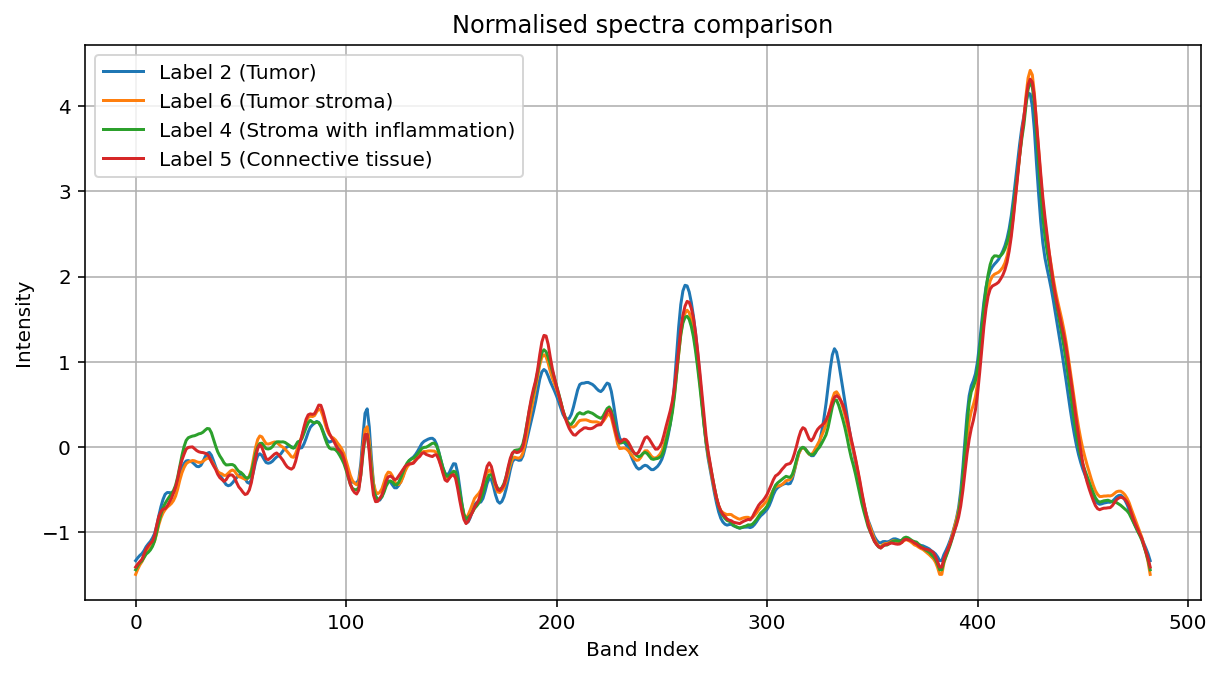
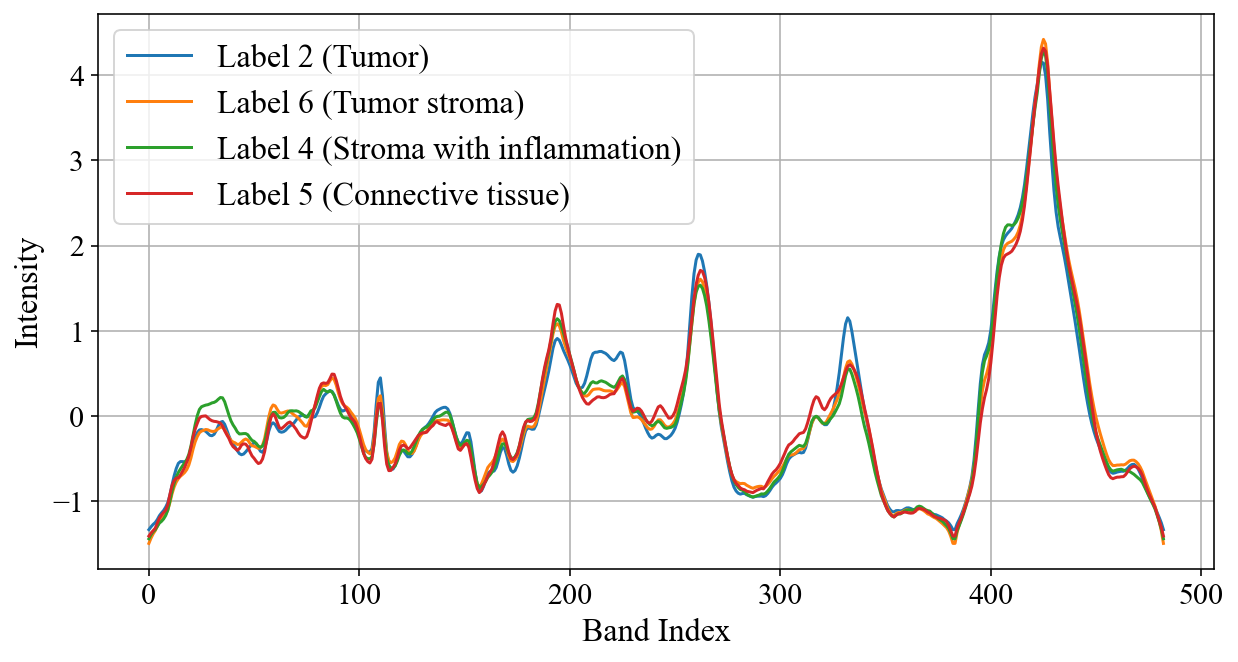
(Claudio) Ch4new: increased fontsize for images + minor corrections

diff --git a/Chapters/Ch_4_new.tex b/Chapters/Ch_4_new.tex
@@ -32,11 +32,11 @@ For Raman hyperspectral maps, spectra were acquired point by point with a spatia
 \subsection{Preprocessing}
 \label{sec:preprocessing_before_analysis}
 
-After acquisition, the raw Raman spectra underwent a stage of preprocessing which was not part of the work for this thesis, but will be briefly illustraded for completeness.
+After acquisition, the raw Raman spectra underwent a stage of preprocessing which was not part of the work for this thesis, but will be briefly illustrated for completeness.
 
 The detector pixel axis was calibrated and converted into Raman shift, and the spectra were interpolated onto a common wavenumber axis. The pipeline then included cosmic-ray (spike) removal, subtraction of the quartz-substrate contribution and baseline correction to remove the background.
 
-The spectra, acquired over a broader Raman-shift range, have been stripped of the \textit{silent region} (1800--2800 $\mathrm{cm}^{-1}$) (\cref{sec:raman_biological_tissues}), where no useful biological information is found, reducing number of bands from 888 to 483. The remaining \textit{fingerprint} and \textit{CH} regions were normalized separately and then joined.
+The spectra, acquired over a broader Raman-shift range, have been stripped of the \textit{silent region} (1800--2800 $\mathrm{cm}^{-1}$) (\cref{sec:raman_biological_tissues}), where no useful biological information is found, reducing the number of bands from 888 to 483. The remaining \textit{fingerprint} and \textit{CH} regions were normalized separately and then joined.
 
 This preparation is important for machine learning, because the spectra used as input to the classification model are shaped not only by tissue biochemistry, but also by acquisition conditions and experimental noise. If these effects are not properly controlled or corrected, the model may learn patterns related to measurement variability rather than tissue class.
 
@@ -48,7 +48,7 @@ The Raman spectra in the dataset have been stored in a \textit{.parquet} file, w
 The analyzed biological tissue was taken from 25 \textit{samples}, one from each of 25 different patients.
 
 Two to five areas, called \textit{maps}, were then selected from each sample for the Raman spectra acquisition.
-A spectrum was acquired for each pixel in the map. Each map has a size of $600\times600 \ \mu m$, acquired as $120\times120$ pixels.
+A spectrum was acquired for each pixel in the map. Each map has a size of $600\times600~\mu\mathrm{m}$, acquired as $120\times120$ pixels.
 Finally, each spectrum ranges across 483 bands and has an associated \textit{label}, indicating the type of biological tissue it belongs to.
 
 \begin{table}[ht]
@@ -91,7 +91,7 @@ With 25 samples and 2 to 5 maps each, the total number of maps is 78, thus amoun
 \label{sec:labels-ch4}
 
 Each pixel (spectrum) has been assigned a label, corresponding to a specific type of biological tissue, by a histopathologist.
-The classification pipeline started with the preparation of the samples as $12\mu m$ slices of tumoral tissue.
+The classification pipeline started with the preparation of the samples as $12~\mu\mathrm{m}$ slices of tumoral tissue.
 Raman spectroscopy was first performed on each slice. The slices were then treated through H\&E staining to allow the histopathologist to assign the labels. Finally, the annotations from the H\&E were directly transferred into the Raman Map.
 
 This process includes two critical points:
@@ -158,11 +158,10 @@ In a preliminary visual analysis, the average spectrum for each class has been c
 
 \begin{figure}[ht]
     \centering
-    \includegraphics[width=0.5\linewidth]{Images/Images_ch_2/spectrum_avg_tumor.png}
+    \includegraphics[width=0.65\linewidth]{Images/Images_ch_2/spectrum_avg_tumor.png}
     \caption{Average spectrum for the \textit{tumor} label. The shaded band shows $\pm1$ standard deviation across spectra. The \textit{fingerprint region} and \textit{CH region} are joined at band n.390, where the intensity is 0.}
-    \label{fig:spectrum_avg_tumor-ch4}
+    \label{fig:spectrum_avg_tumor}
 \end{figure}
-
 
 All classes appear to have the same trends, with multiple similar peaks in the \textit{fingerprint region} (bands 0--382, or equivalently 500--1800 $\mathrm{cm}^{-1}$) and a major peak in the \textit{CH region} (bands 383--483, or equivalently 2800--3000 $\mathrm{cm}^{-1}$). The only exceptions are represented by \textit{unlabeled/transparent}, \textit{artifact} and \textit{necrosis} pixels, which differ from the others mainly in the fingerprint region (\Cref{fig:spectra_comparison_discarded-ch4}).
 
@@ -209,34 +208,36 @@ The \textit{tumor} macro-class, which always includes the \textit{tumor (2)} lab
 
 
 The second approach, using isolated classes, will reduce intra-class variance and allow the model to learn the class-specific patterns, thus improving performance.
-Due to the class imbalance (tumor alone being 46,71\% of the dataset) the classes will not be equal in numerosity anymore, requiring rebalancing by discarding part of the available training data. The model is then trained on a reduced number of spectra. Due to the size of the dataset ($>$1\,000\,000 spectra) and the strong spatial correlation between adjacent pixels, which makes neighbouring spectra highly redundant, the data can be substantially subsampled with little loss of information, provided that spectra from every sample are retained. This reduces the possible choices for \textit{healthy} labels to the most numerous ones, i.e.\ \textit{tumor stroma (6)}, \textit{stroma with inflammation (4)} and \textit{connective tissue (5)} (\Cref{fig:label_distribution-ch4}).
+Due to the class imbalance (tumor alone being 46,71\% of the dataset), the classes will not be equal in numerosity anymore, requiring rebalancing by discarding part of the available training data. The model is then trained on a reduced number of spectra. Due to the size of the dataset ($>$1\,000\,000 spectra) and the strong spatial correlation between adjacent pixels, which makes neighbouring spectra highly redundant, the data can be substantially subsampled with little loss of information, provided that spectra from every sample are retained. This reduces the possible choices for \textit{healthy} labels to the most numerous ones, i.e.\ \textit{tumor stroma (6)}, \textit{stroma with inflammation (4)} and \textit{connective tissue (5)} (\Cref{fig:label_distribution-ch4}).
 % TODO (optional, for a stronger quantitative claim): validate the subsampling empirically instead of stating it qualitatively.
 % Sweep the training-set fraction (e.g. 5/10/25/50/100%) using the SUBSAMPLE knob in scripts/train.py of the VibraAI repo, keeping the leakage-free per-patient split, and plot AUC/accuracy vs fraction.
 % If performance stays flat down to a small fraction, replace the sentence above with the measured number (e.g. "down to X\% with no significant performance loss") and add the plot as a figure.
 
-Regarding discernability, the most similar tissues are also the most clinically confusable. Being able to discriminate would then be the most valuable result. The three possible healthy classes show a comparable degree of similarity to the tumor (\Cref{fig:spectra_comparison_similar-ch4}), each then constitutes an equally valid choice, with no class being a priori better suited than the rest from a separability standpoint.
+Regarding discernability, the most similar tissues are also the most clinically confusable. Being able to discriminate would then be the most valuable result. The three possible healthy classes show a comparable degree of similarity to the tumor (\Cref{fig:spectra_comparison_similar-ch4}); each therefore constitutes an equally valid choice, with no class being a priori better suited than the rest from a separability standpoint.
 
 Clinically, each label can be relevant in different ways:
 \begin{itemize}
     \item \textbf{Tumor stroma:} is the supportive environment for future tumoral growth (though still healthy). It sits right at the boundary between tumoral tissue and healthy tissue, thus it is of primary interest for surgical margin assessment.
-    \item \textbf{Stroma with inflammation:} Stroma infiltrated by immune cells. Related to \textit{tumor stroma}, they often overlap and are classified based on the histopathologist's judgement and not due to strict biological distinction. Stroma with inflammation can be also unrelated to tumoral activity, although the scale of the problem (few $\mu m$) makes this possibility very unlikely.
+    \item \textbf{Stroma with inflammation:} Stroma infiltrated by immune cells. Related to \textit{tumor stroma}, they often overlap and are classified based on the histopathologist's judgement and not due to strict biological distinction. Stroma with inflammation can be also unrelated to tumoral activity, although the scale of the problem (few $\mu\mathrm{m}$) makes this possibility very unlikely.
     \item \textbf{Connective tissue:} Unaltered collagen rich tissue. Would serve to the same purpose of the macro-class distinction proposed previously.
 \end{itemize}
 
 Two binary problems are therefore taken forward to the classification stage. The first, \textit{tumor} vs.\ \textit{healthy}, groups all valid non-tumor classes into a single \textit{healthy} macro-class: it targets the broad, clinically versatile question and keeps the two groups close to 50/50, allowing the whole dataset to be used. The second, \textit{tumor} vs.\ \textit{tumor stroma}, is a single, surgically motivated pairing for margin assessment; building the \textit{healthy} side from the most numerous single class yields a spectrally homogeneous and balanced training set, for which better performance is expected.
 
+
 \begin{figure}[H]
     \centering
     \subfloat[\textit{Tumor} vs. \textit{healthy} classification (1st approach).\label{fig:heatmap-tumor-vs-healthy-ch4}]{
-        \includegraphics[width=0.44\textwidth]{Images/Images_ch_2/heatmap_tumor_vs_healthy.png}
+        \includegraphics[width=0.45\textwidth]{Images/Images_ch_2/heatmap_tumor_vs_healthy.png}
     }
     \hfill
     \subfloat[\textit{Tumor} vs. \textit{stroma with inflammation} classification (2nd approach).\label{fig:heatmap-tumor-vs-stroma-ch4}]{
-        \includegraphics[width=0.46\textwidth]{Images/Images_ch_2/heatmap_tumor_vs_stroma.png}
+        \includegraphics[width=0.45\textwidth]{Images/Images_ch_2/heatmap_tumor_vs_stroma.png}
     }
     \caption{Maps with highlighted labels based on classification approach. \textit{Stroma with inflammation} is shown instead of \textit{tumor stroma} (the actual training target) for illustrative purposes, because no map in the dataset contained \textit{tumor stroma} together with other labels.}
     \label{fig:heatmap_classification-ch4}
 \end{figure}
+
 
 
 \section{Network architectures}
@@ -262,7 +263,7 @@ The classification stage was based on three model architectures (S, M, L) that v
 
 The models all consisted of \textit{dense} (fully connected) layers, with a \textit{dropout} rate of 0.4 to reduce overfitting. \textit{Dropout} is a regularization technique such that at every training step, every neuron (excluding the output neurons) has a probability $p=0.4$ of being temporarily ignored, though it may be active during the next step. Neurons trained with \textit{dropout} cannot co-adapt with their neighboring neurons; they have to be as useful as possible on their own. They also cannot rely excessively on just a few input neurons and must pay attention to each of their input neurons \cite{geron2022hands}.
 
-All the hidden layers used ReLU as activation functions and the number of input units is set to the number of retained PC components, while the output neurons had a sigmoid activation.
+All the hidden layers used ReLU as activation functions and the number of input units is set to the number of retained PC components (itself a hyperparameter, selected jointly with the architecture, see \cref{sec:training-ch4}), while the output neurons had a sigmoid activation.
 
 
 \section{Data splitting and cross validation}
@@ -274,14 +275,16 @@ Furthermore, because different maps and samples contain different mixes of biolo
 
 A splitting protocol based on Sample IDs was implemented to solve both problems at once, combining a Sample-ID-based split with cross validation into a single pipeline:
 \begin{enumerate}
-    \item The dataset is divided by Sample ID into $k$ \textit{stratified} folds, where the stratification means keeping the ratio of the two labels close to 1:1 in each fold (by downsampling the majoritary class) while ensuring that no Sample ID is split across folds.
+    \item The dataset is divided by Sample ID into $k$ \textit{stratified} folds, where the stratification means keeping the ratio of the two labels close to 1:1 in each fold (by downsampling the majority class) while ensuring that no Sample ID is split across folds.
     \item At each of the $k$ iterations, one fold is held out as the \textit{test} set, while the remaining $k-1$ folds form the training pool.
     \item An internal \textit{validation} set is carved out of the training pool (again split by Sample ID, to avoid leakage), leaving the rest as the actual training set. The validation set is used to monitor the model during training (e.g. for early stopping), while the test fold is reserved for final evaluation only.
 \end{enumerate}
 
+Throughout this splitting protocol, $k$ denotes the number of cross-validation folds.
+
 This is repeated for all $k$ folds, so that every sample is used exactly once for testing. Results are saved for each fold and then averaged, to balance out 'easy' and 'difficult' folds and obtain a representative estimate of performance rather than one dependent on a single, possibly lucky, split.
 
-If PCA was performed one the whole dataset, the test set would be decomposed in PCs that were fitted on the training set and vice-versa. This would once again lead to data leakage. To avoid this issue, the split was performed on the raw dataset, then PCA was refitted on each training set ($k$ PCAs performed each time, once per split)
+If PCA was performed on the whole dataset, the test set would be decomposed in PCs that were fitted on the training set and vice-versa. This would once again lead to data leakage. To avoid this issue, the split was performed on the raw dataset, then PCA was refitted on each training set ($k$ PCAs performed each time, once per split).
 
 For this dataset, cross validation was performed with $k=5$ folds, maintaining roughly 5 sample IDs per fold ($\sim20\%$ of the dataset).
 
@@ -292,10 +295,10 @@ For this dataset, cross validation was performed with $k=5$ folds, maintaining r
 There are multiple hyperparameters that are not fixed a priori, for which an optimal value has to be found to make the model perform best. Those parameters comprise: network size, number of retained PCs and batch size.
 To choose between them, a grid search was performed. For each hyperparameter, a list of possible values was chosen, then the model was trained and tested for every possible combination of those values (said combinations are called the \textit{search space}).
 
-Network size and number of retained PCs were searched jointly first, over the three possible network sizes S, M, L (\cref{sec:architectures-ch4}) and thirteen values of retained principal components $N_{PC} \in \{1, 2, 3, 5, 10, 20, 30, 50, 75, 100, 200, 300, 483\}$, where the last value corresponds to full dimensionality (equivalent to training on the full Raman spectra).
+Network size and number of retained PCs were searched jointly first, over the three possible network sizes S, M, L (\cref{sec:architectures-ch4}) and thirteen values for the number of retained principal components $N_{PC} \in \{1, 2, 3, 5, 10, 20, 30, 50, 75, 100, 200, 300, 483\}$, where the last value corresponds to full dimensionality (equivalent to training on the full Raman spectra).
 The full search, using 5-fold cross validation (\cref{sec:data_splitting-ch4}), meant training $3\times 13\times 5 = 195$ models and comparing the $3\times 13 = 39$ results.
 
-To recuce computational complexity, once the best architecture and $N_{PC}$ combination was selected, batch size was tuned separately on this fixed configuration, over six values $N_\mathcal{B} \in \{512, 1024, 2048, 4096, 8192, 16384\}$. Batch sizes were chosen as powers of 2 due to convention and minor optimization in computer memory.
+To reduce computational complexity, once the best architecture and $N_{PC}$ combination was selected, batch size was tuned separately on this fixed configuration, over six values of the batch size $N_\mathcal{B} \in \{512, 1024, 2048, 4096, 8192, 16384\}$. Batch sizes were chosen as powers of 2 due to convention and minor optimization in computer memory.
 
 As explained in \cref{subsec:pca_svd}, PCA is fitted on the full dimensional spectrum, then the required number of PCs are selected by keeping only the first columns of the projected data matrix. This avoids the computational burden of reducing dimensionality for every training instance.
 
@@ -306,7 +309,7 @@ Two callbacks were implemented to control training:
     \item \textit{Learning rate reduction on plateau:} when validation loss fails to improve for 4 consecutive epochs, the learning rate $\eta$ is reduced by half, down to a minimum of $\eta = 10^{-6}$. This allows for finer tuning compared to the relatively coarse \textit{Adam} steps.
 \end{itemize}
 
-All stochastic parts of the pipeline (i.e. fold assignment, the split within each fold, and majority-class downsampling) use a fixed random seed, so that results are deterministic and comparable across the grid, although the model's weight initialization done by keras is not fixed. Differences in metrics between configurations reflect the architecture/$N_{PC}$ choice itself, not casual variation from a different random split. The variations caused by the different initializations are negligible ($\sim1\%$ on AUC) compared to those given by the split.
+All stochastic parts of the pipeline (i.e.\ fold assignment, the split within each fold, and majority-class downsampling) use a fixed random seed, so that results are deterministic and comparable across the grid, although the model's weight initialization done by keras is not fixed. Differences in metrics between configurations reflect the architecture/$N_{PC}$ choice itself, not casual variation from a different random split. The variations caused by the different initializations are negligible ($\sim1\%$ on AUC) compared to those given by the split.
 
 
 \section{Spatial post-processing}
@@ -314,18 +317,18 @@ All stochastic parts of the pipeline (i.e. fold assignment, the split within eac
 
 The network outputs one probability for each spectrum. Since spectra are acquired on a regular Raman map, each probability is associated with spatial coordinates \((x,y)\). Adjacent pixels correspond to spatially close measurements and are therefore likely to contain related biological information.
 
-Spatial post-processing is applied after the network has produced its predicted probabilities, without modifying the architecture, the training procedure or the learned parameters. In particular, smoothing is applied to the probabilities before converting them into binary labels through a \textit{decision threshold} $\tau$. Borders are handled by replacing the missing neighbouring values with the nearest available pixel values of the same map.
+Spatial post-processing is applied after the network has produced its predicted probabilities, without modifying the architecture, the training procedure or the learned parameters. In particular, smoothing is applied to the probabilities before converting them into binary labels through a \textit{decision threshold} $\tau$ (its role in the precision/recall tradeoff is discussed in \cref{sec:evaluation_metrics-ch4}). Borders are handled by replacing the missing neighbouring values with the nearest available pixel values of the same map.
 
-Let \(p(x,y)\) be the probability predicted by the model for the positive class at the pixel located at coordinates \((x,y)\). With a \(k \times k\) mean filter, the smoothed probability \(\tilde{p}(x,y)\) can be written as
+Let \(p(x,y)\) be the probability predicted by the model for the positive class at the pixel located at coordinates \((x,y)\). With a \(w \times w\) mean filter, the smoothed probability \(\tilde{p}(x,y)\) can be written as
 
 \begin{equation}
     \tilde{p}(x,y) =
-    \frac{1}{k^2}
+    \frac{1}{w^2}
     \sum_{(i,j)\in(x,y)} p(i,j)
     \label{eq:spatial_smoothing-ch4}
 \end{equation}
 
-The kernel size $k$ is a configurable parameter; in the experiments, two neighbourhood sizes were considered: \(3 \times 3\) and \(5 \times 5\).
+The kernel size $w$ (not to be confused with the number of cross-validation folds $k$, \cref{sec:data_splitting-ch4}) is a configurable parameter; in the experiments, two neighbourhood sizes were considered: \(3 \times 3\) and \(5 \times 5\).
 
 The final binary prediction is then obtained through \textit{decision threshold}:
 
@@ -344,10 +347,10 @@ The objective is to reduce isolated noisy predictions and obtain spatially more 
 \section{Evaluation metrics}
 \label{sec:evaluation_metrics-ch4}
 
-Accuracy is often not the best metric to consider in order to evaluate the performance of a model. when the dataset is not balanced, accuracy could be very high although the model does not perform well. For example, if the dataset was composed at 90\% by tumoral cells, even a model that just classifies as 'tumoral' every pixel would achieve 90\% accuracy, although not predicting anything at all.
+Accuracy is often not the best metric to consider in order to evaluate the performance of a model. When the dataset is not balanced, accuracy could be very high although the model does not perform well. For example, if the dataset was composed at 90\% by tumoral cells, even a model that just classifies as 'tumoral' every pixel would achieve 90\% accuracy, although not predicting anything at all.
 
-A better way to evaluate a model is through the \textit{confusion matrix}, which shows how many times instances of class A are classified as B, for every possible combination of classes. Each row in a confusion matrix represents an \textit{actual class}, while each column represents a \textit{predicted class}
-For a binary classifier, the \textit{true positive} TP and \textit{true negative} TN lie on the main diagonal, while the off diagonal terms represent \textit{false positives} FP and \textit{false negatives} FN (\cref{fig:confusion_matrix-ch4})
+A better way to evaluate a model is through the \textit{confusion matrix}, which shows how many times instances of class A are classified as B, for every possible combination of classes. Each row in a confusion matrix represents an \textit{actual class}, while each column represents a \textit{predicted class}.
+For a binary classifier, the \textit{true positive} TP and \textit{true negative} TN lie on the main diagonal, while the off-diagonal terms represent \textit{false positives} FP and \textit{false negatives} FN (\cref{fig:confusion_matrix-ch4}).
 
 \begin{figure}[ht]
     \centering
@@ -386,7 +389,7 @@ Further useful metrics are \textit{precision} and \textit{recall}.
 
 Increasing precision reduces recall, and vice versa. This is called the \textit{precision/recall tradeoff}. The ratio between the two is determined through a \textit{decision threshold}. For each instance, the model computes a score based on the decision function, and if that score is greater than the threshold, it assigns the instance to the positive class, or else it assigns it to the negative class.
 
-It is also useful to combine precision and recall into a single metric called the $F_1$ score, in particular if you need a simple way to compare two classifiers. The $F_1$ score is the harmonic mean of precision and recall, which gives more weight to low values respect to a regular mean
+It is also useful to combine precision and recall into a single metric called the $F_1$ score, in particular when a simple way to compare two classifiers is needed. The $F_1$ score is the harmonic mean of precision and recall, which gives more weight to low values compared to a regular mean
 
 \begin{equation}
     F_1 = \frac{2}{\dfrac{1}{\text{precision}} + \dfrac{1}{\text{recall}}} = 2 \times \frac{\text{precision} \times \text{recall}}{\text{precision} + \text{recall}}
@@ -394,15 +397,15 @@ It is also useful to combine precision and recall into a single metric called th
 
 however, the $F_1$ score favors classifiers that have similar precision and recall, which might not be optimal for every classifier. In some cases precision might be more important than recall, while in other the opposite might be true.
 
-In this work, recall is undoubtedly more important. Classifying a healthy pixel as tumoral will have less consequences of not being able to catch tumoral cells due to low recall.
+In this work, recall is undoubtedly more important. Classifying a healthy pixel as tumoral has fewer consequences than failing to catch a tumoral one through low recall.
 
-The \textit{receiver operating characteristic} (ROC) curve is another common tool used with binary classifiers. It plots \textit{recall} (also called \textit{true positive rate}, TPR) against the \textit{false positive rate} (FPR), which is the ratio of negative instances that are incorrectly classified as positive
+The \textit{receiver operating characteristic} (ROC) curve is another common tool used with binary classifiers. It plots \textit{recall} (also called \textit{true positive rate}, TPR) against the \textit{false positive rate} (FPR), which is the ratio of negative instances that are incorrectly classified as positive:
 
 \begin{equation}
     \text{FPR} = \frac{\text{FP}}{\text{FP}+\text{TN}}
 \end{equation}
 
-Thie tradeoff is always present: the higher the recall (TPR), the more false positives (FPR) the classifier produces. The dashed line in \cref{fig:roc_curve-ch4} represents the ROC curve of a purely random classifier; a good classifier stays as far away from that line as possible (toward
+The tradeoff is always present: the higher the recall (TPR), the more false positives (FPR) the classifier produces. The dashed line in \cref{fig:roc_curve-ch4} represents the ROC curve of a purely random classifier; a good classifier stays as far away from that line as possible (toward
 the top-left corner).
 One way to compare classifiers is to measure the area under the curve (AUC). A perfect classifier will have a ROC AUC equal to 1, whereas a purely random classifier will have a ROC AUC equal to 0.5.
 
@@ -447,16 +450,3 @@ In this code, \texttt{n\_components} is the number \(d\) of retained principal
 components, and \texttt{X\_d\_proj} is the projected data matrix. Scikit-learn centers
 the data internally before computing PCA, so the user provides the original data matrix
 and the algorithm estimates the principal axes from it.
-
-% ============================================================================
-% [MIGRATION NOTE] Suggestion for the "Data provenance" section above (not
-% modified in this pass, since it already contains authored prose and adding
-% to it would go beyond copy-paste): the restructuring guide asks for a
-% two-column contribution table (clinical partner / instrument operator /
-% "this work", listing who did what: recruitment, slicing, acquisition,
-% preprocessing, annotation vs. class-selection criteria, PCA choices,
-% architectures, training protocol, CV design, post-processing, evaluation)
-% plus a short closing paragraph stating that the preprocessing pipeline was
-% received as a fixed constraint, not a degree of freedom, and that its
-% effect on performance could not be assessed (to be picked up in the future
-% ============================================================================
